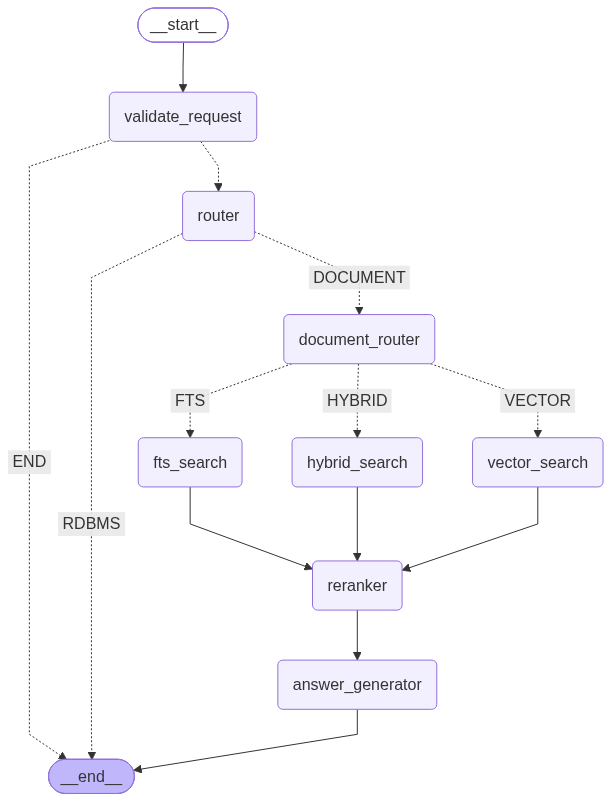
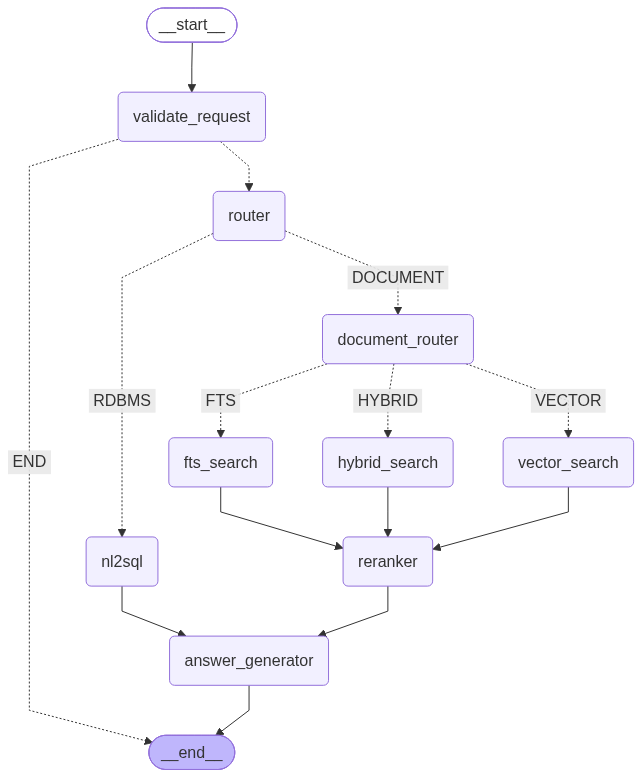
added rdbms changes

diff --git a/app/nodes/answer_generator.py b/app/nodes/answer_generator.py
@@ -8,32 +8,43 @@ def answer_generator_node(state: AdvisorState) -> AdvisorState:
 
     print("============== INSIDE ANSWER GENERATOR ==============")
 
-    docs = state.get("reranked_docs", [])
-
-
     # --------------------------------------------------
-    # Prepare context from reranked documents
-    # --------------------------------------------------
+# Prepare context
+# --------------------------------------------------
 
-    context = "\n\n".join(
-        [
-            f"""
-Document:
-{doc.get('citation', {}).get('source_file')}
+    if state.get("route") == "RDBMS":
 
-Page:
-{doc.get('citation', {}).get('page_number')}
+        context = f"""
+    Database Result:
 
-Section:
-{doc.get('citation', {}).get('section')}
+    {state.get("sql_result", "")}
+    """
 
-Content:
-{doc.get('content')}
-"""
-            for doc in docs
-        ]
-    )
+        docs = []
 
+    else:
+
+        docs = state.get("reranked_docs", [])
+
+
+        context = "\n\n".join(
+            [
+                f"""
+    Document:
+    {doc.get('citation', {}).get('source_file')}
+
+    Page:
+    {doc.get('citation', {}).get('page_number')}
+
+    Section:
+    {doc.get('citation', {}).get('section')}
+
+    Content:
+    {doc.get('content')}
+    """
+                for doc in docs
+            ]
+        )
 
     # --------------------------------------------------
     # Generate answer

diff --git a/app/agents/agent.py b/app/agents/agent.py
@@ -536,7 +536,10 @@ def build_rag_graph():
         answer_generator_node
     )
 
-
+    workflow.add_node(
+    "nl2sql",
+    nl2sql_node
+)
     # -----------------------------
     # Entry
     # -----------------------------
@@ -581,7 +584,7 @@ def build_rag_graph():
             "DOCUMENT": "document_router",
 
             # SQL not added yet
-            "RDBMS": END
+            "RDBMS": "nl2sql"
         }
     )
 
@@ -639,6 +642,10 @@ def build_rag_graph():
         "answer_generator"
     )
 
+    workflow.add_edge(
+    "nl2sql",
+    "answer_generator"
+)
 
     workflow.add_edge(
         "answer_generator",
